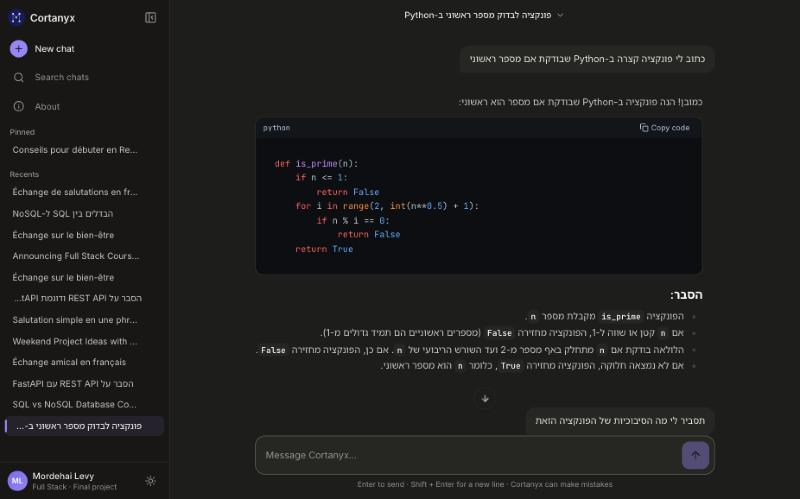
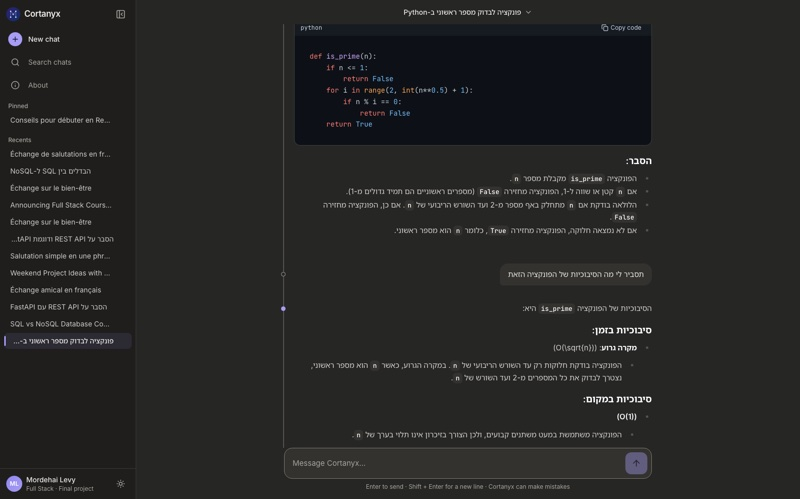
README screenshots: the conversation thread (demo-only database)

diff --git a/README.md b/README.md
@@ -7,7 +7,7 @@ React SPA → Python FastAPI REST API → MySQL, with OpenAI called **only from 
 
 **GitHub:** https://github.com/mordehailevy/cortanyx
 
-![Cortanyx - chat with history, Markdown table](docs/screenshots/chat-light.jpg)
+![Cortanyx - chat with history, Markdown, code and the conversation thread](docs/screenshots/chat-light.jpg)
 
 | Hebrew, dark theme, highlighted code | Mobile menu (pinned + recents) | About page |
 |---|---|---|
